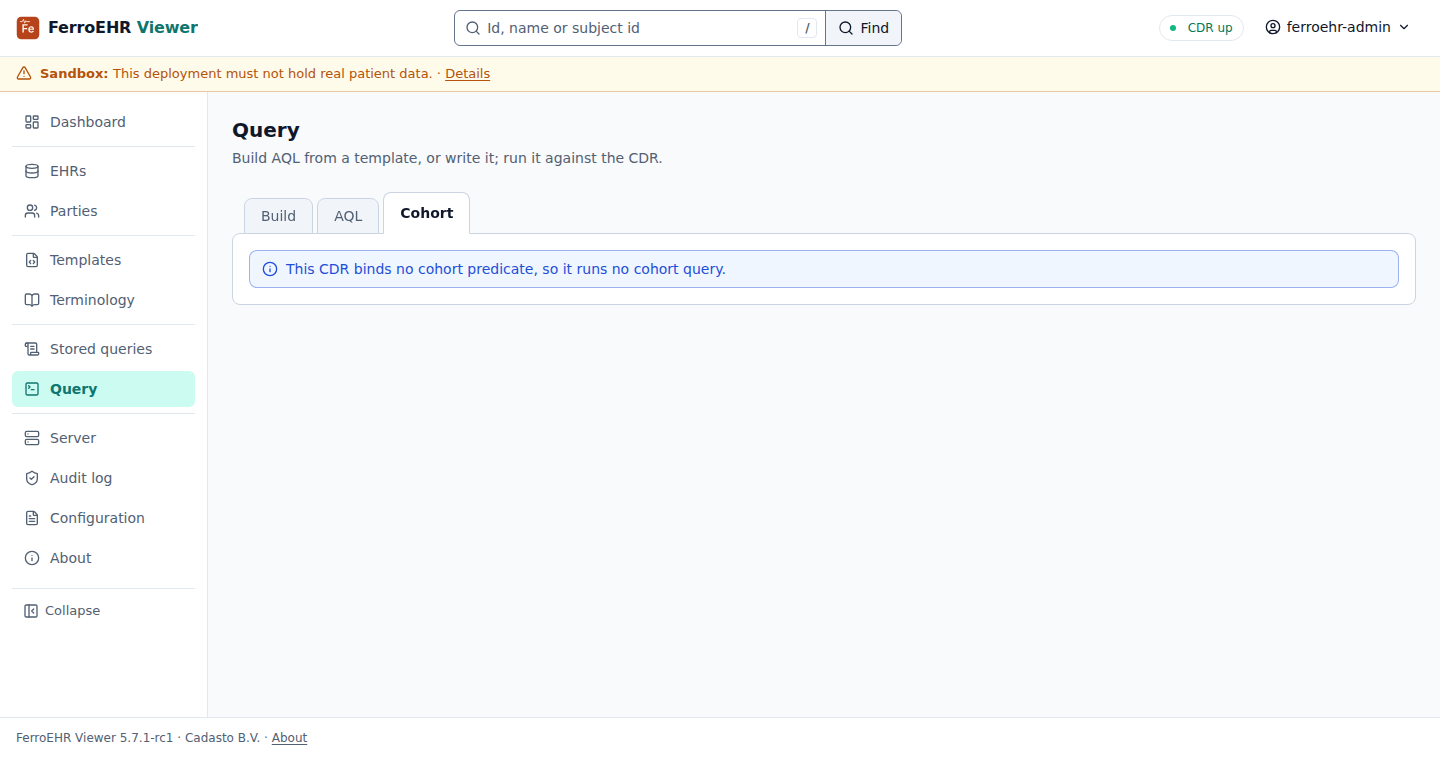
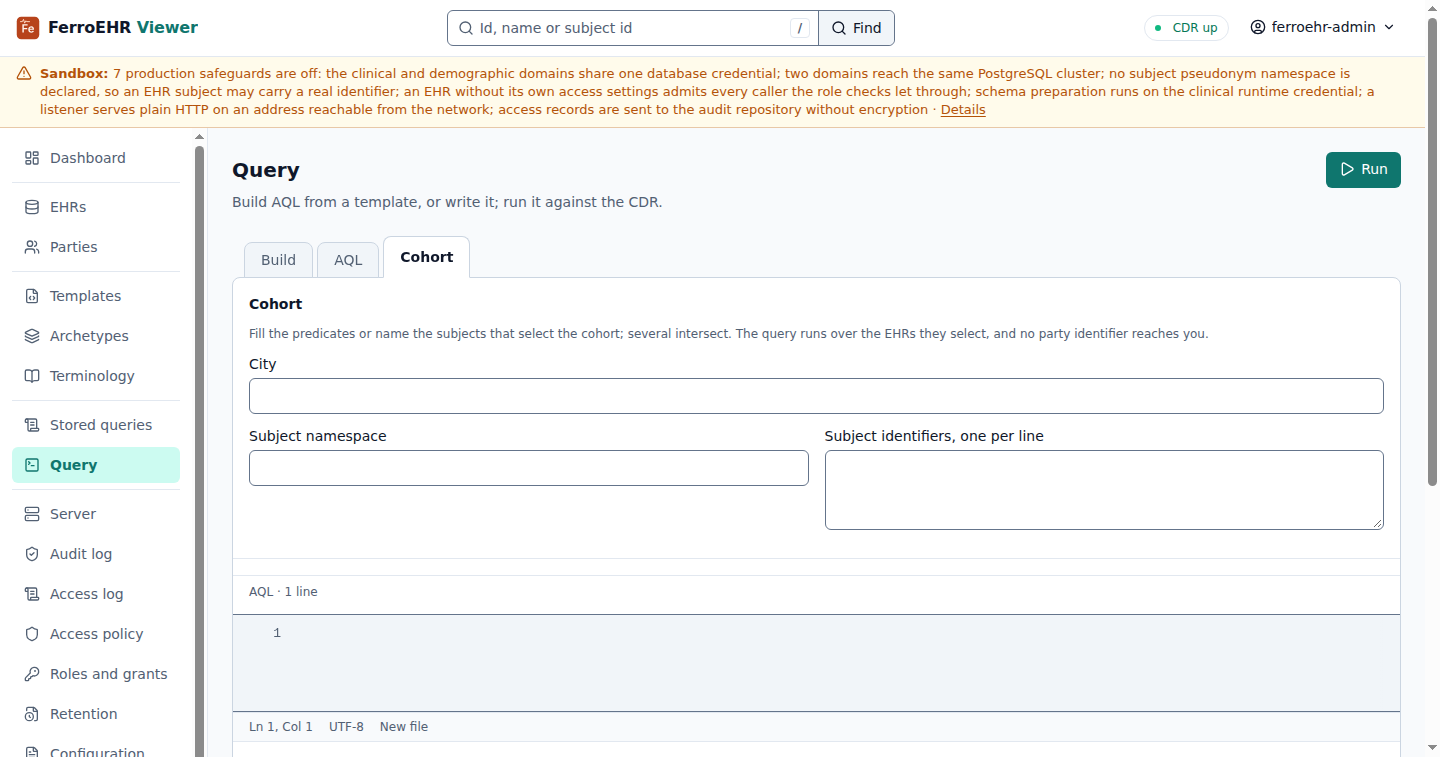
test(viewer): the cohort journey waits for the tab's new intro, and the book shows the subjects (#6774)

diff --git a/app/ferroehr-viewer/tests/it/e2e_cohort.rs b/app/ferroehr-viewer/tests/it/e2e_cohort.rs
@@ -113,7 +113,7 @@ async fn admin_runs_a_cohort_and_a_small_cell_is_withheld() {
 
     common::follow_nav(&h, "/query").await;
     common::open_tab(&h, "cohort").await;
-    wait_main_contains(&h, "Fill the predicates that select the cohort").await;
+    wait_main_contains(&h, "Fill the predicates or name the subjects").await;
     h.shot(1, "cohort-form").await;
     run(&h, &served).await;
     let text = main_text(&h).await;
